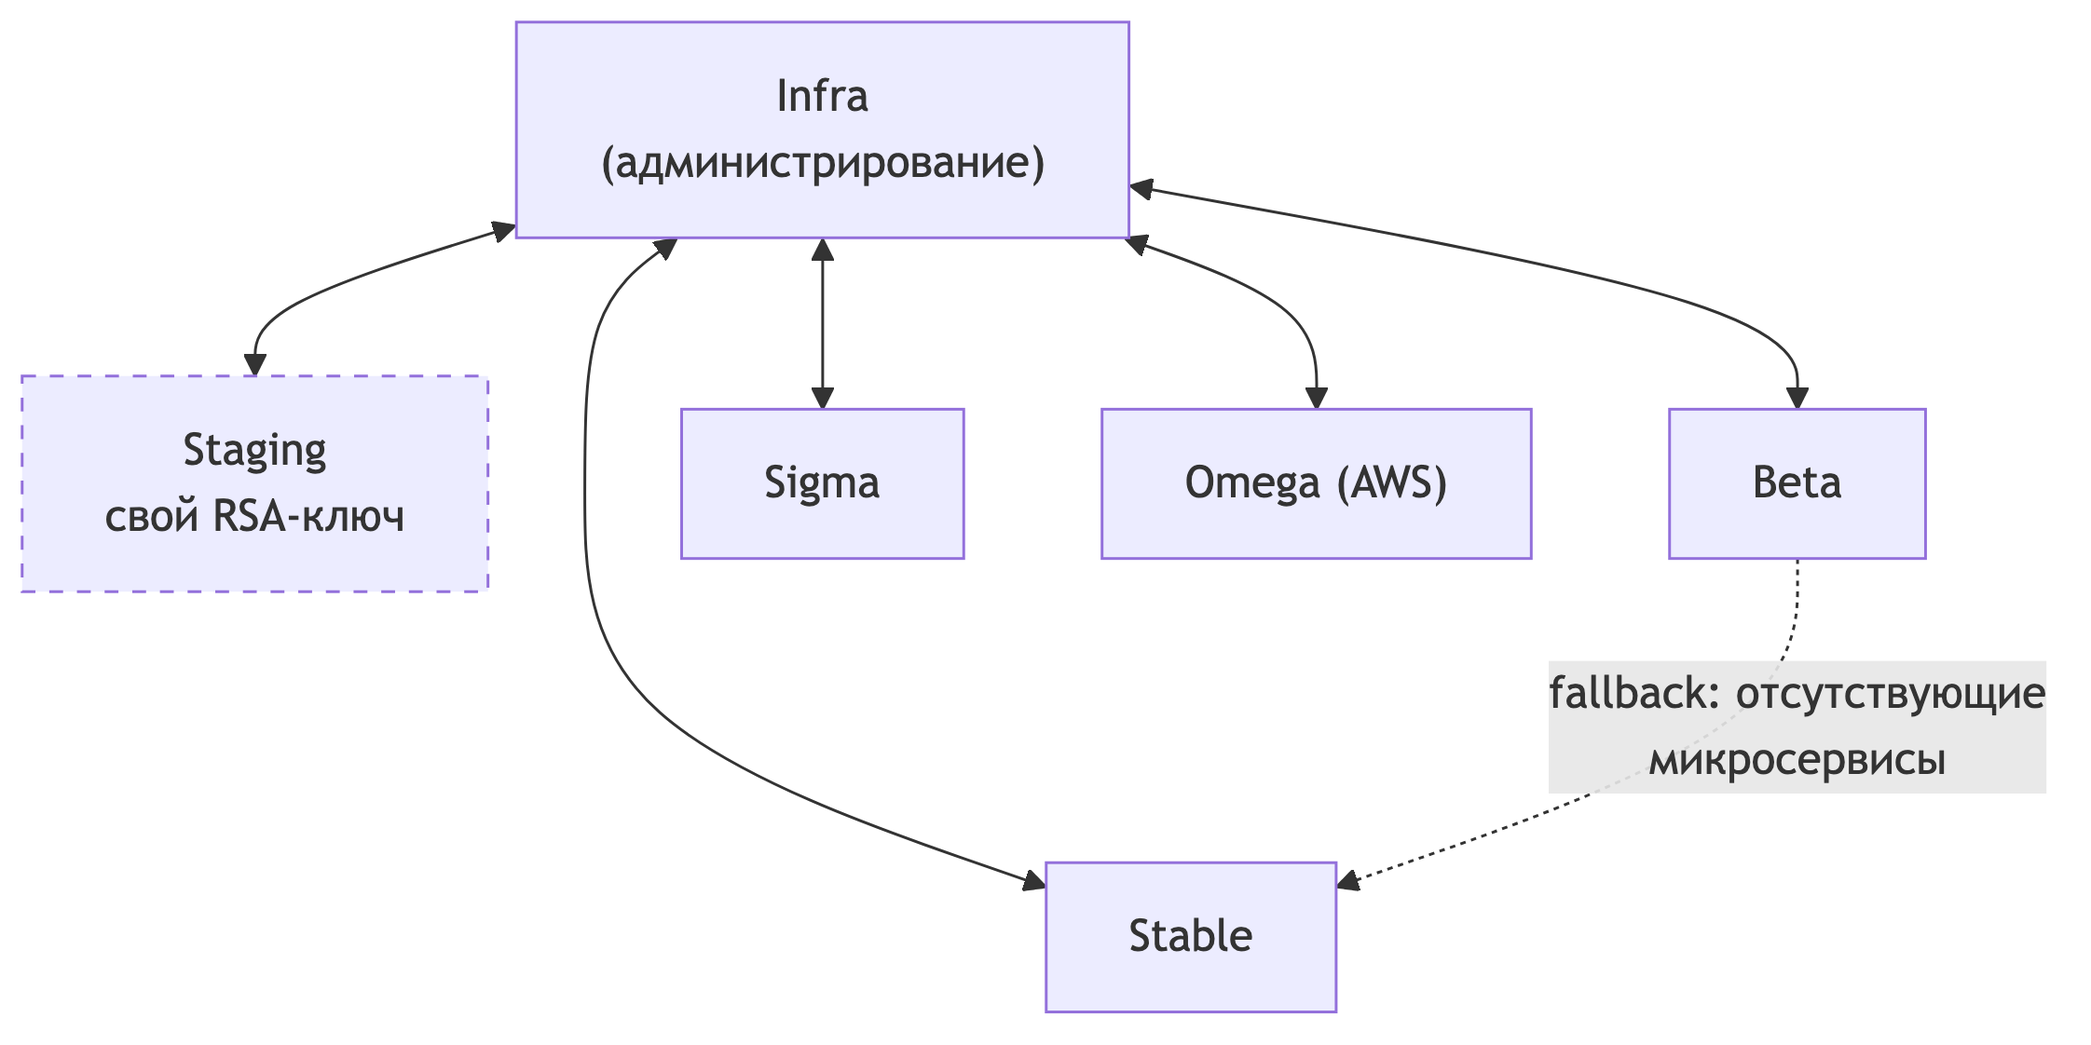
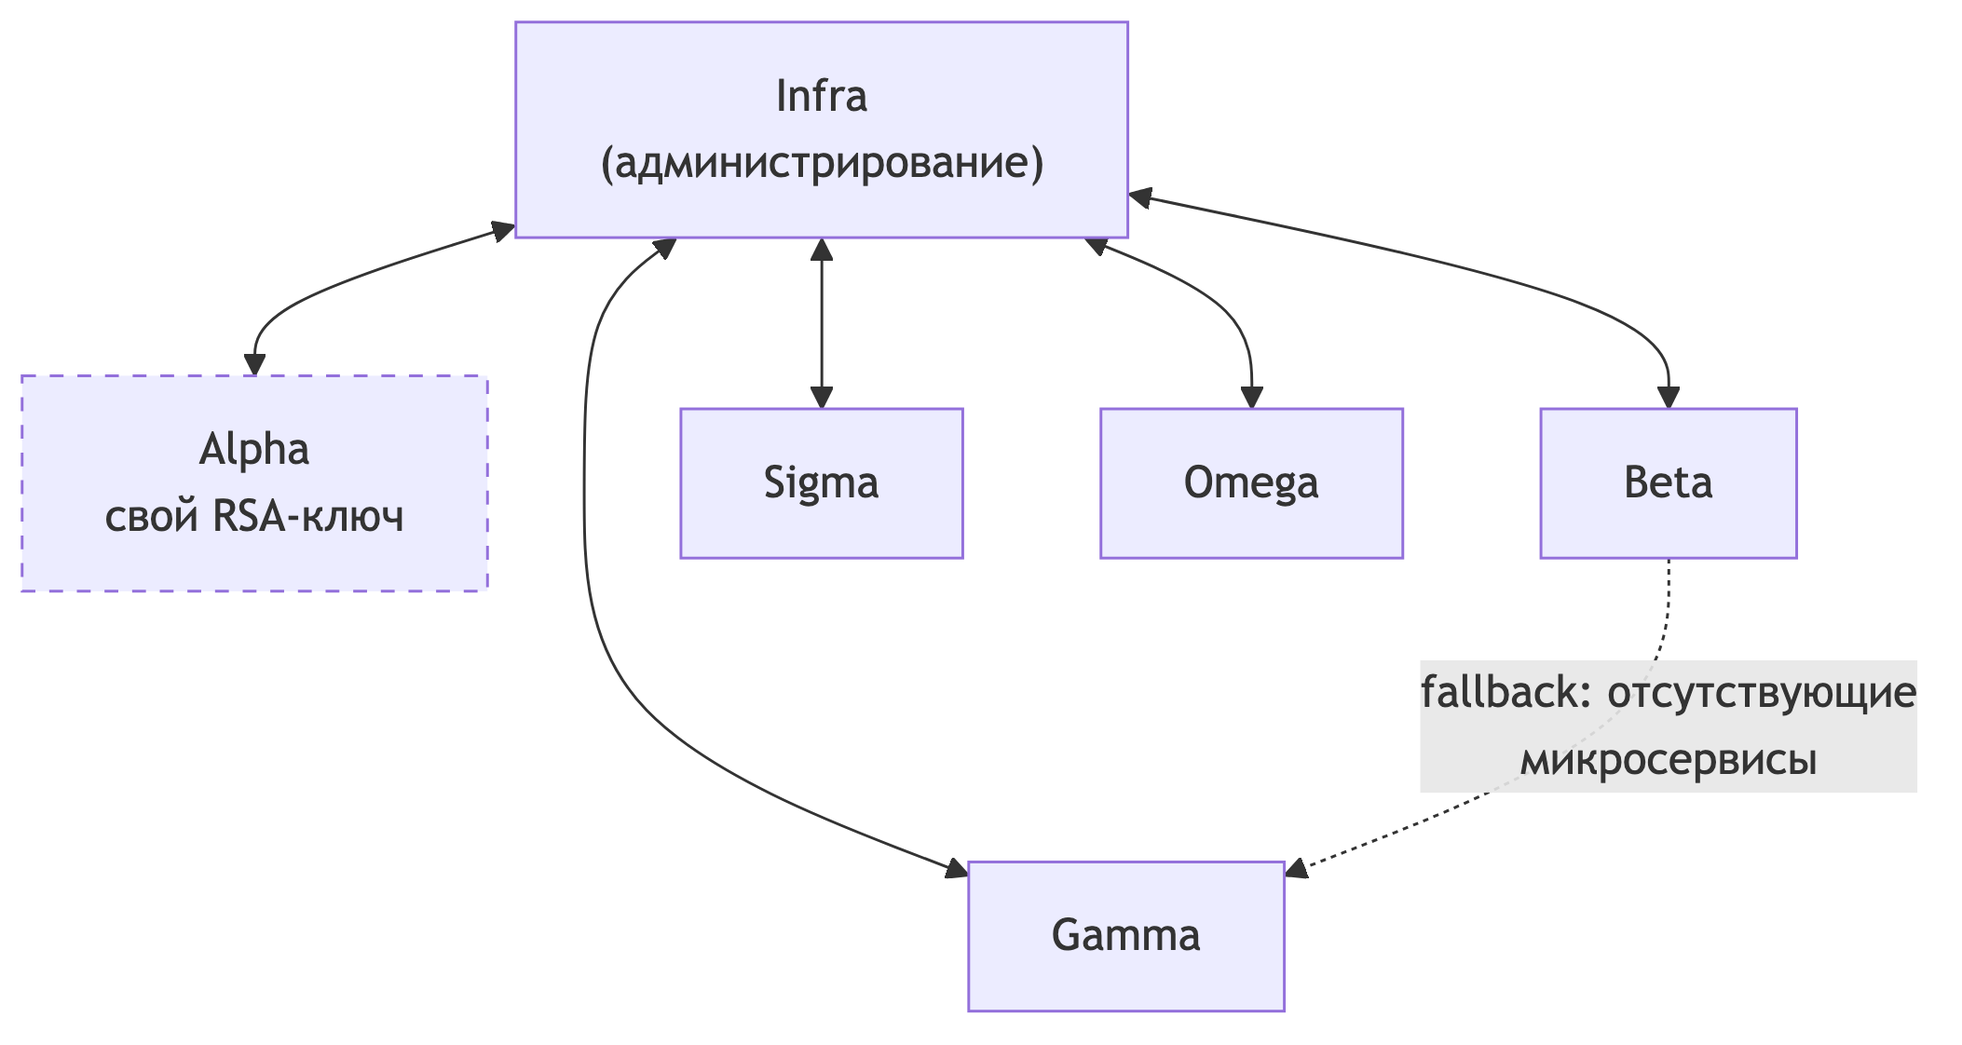
Enhaced things

diff --git a/chapters/006_chapter1.tex b/chapters/006_chapter1.tex
@@ -27,8 +27,9 @@
 
 Платформа Mindbox представляет собой мультитенантную микросервисную систему,
 насчитывающую порядка 120 независимо развёртываемых сервисов.
-Каждый сервис обслуживает запросы нескольких клиентов (тенантов) одновременно,
-разделяя данные на уровне приложения.
+Клиентами (тенантами) платформы являются компании, использующие Mindbox
+для автоматизации маркетинга и роста своего бизнеса, ~--- например, Яндекс Образование, Купер, СДЭК и другие.
+Каждый сервис обслуживает запросы разных тенантов одновременно, разделяя данные на уровне приложения.
 Единственным исключением является CDP (Customer Data Platform)~---
 административная панель клиента, которая развёртывается для каждого тенанта отдельно,
 однако при обработке запросов обращается к общим мультитенантным микросервисам.
@@ -52,41 +53,32 @@
 
 \subsection{Контуры развёртывания}\label{subsec:contours}
 
-Для обеспечения изоляции сред и управления рисками при развёртывании
-платформа разделена на шесть контуров.
+Для обеспечения изоляции сред и управления рисками при развёртывании платформа разделена на несколько контуров.
 
-\textbf{Staging}~--- среда разработчиков.
-Предназначена для локальной отладки и интеграционного тестирования
-до попадания изменений на боевые контуры.
-Использует собственный набор криптографических ключей,
-изолированный от остальных контуров.
-
-\textbf{Beta}~--- контур предрелизного тестирования на ограниченной группе реальных пользователей.
-Позволяет выявить дефекты в условиях, приближённых к боевой эксплуатации,
-до масштабного развёртывания.
-
-\textbf{Stable}~--- основное боевое окружение,
-обслуживающее подавляющее большинство клиентов и принимающее максимальную нагрузку.
-Именно на этом контуре обрабатывается свыше 2 миллионов запросов в минуту.
-
-\textbf{Sigma}~--- дополнительный боевой контур, функционально аналогичный stable.
-Создан для размещения новых клиентов и масштабирования платформы.
-
-\textbf{Omega}~--- полностью изолированный боевой контур,
-развёрнутый в облачной инфраструктуре AWS.
-
-\textbf{Infra}~--- внутренний инфраструктурный контур компании.
-Содержит инструменты администрирования проектами клиентов (CDP приложения)
-на всех вышеперечисленных контурах.
+\begin{itemize}
+  \item \textbf{Alpha} (Staging)~--- среда разработчиков.
+    Предназначена для локальной отладки и интеграционного тестирования до попадания изменений на боевые контуры.
+    Использует собственный набор криптографических ключей, изолированный от остальных контуров.
+  \item \textbf{Beta}~--- контур предрелизного тестирования на ограниченной группе реальных пользователей.
+    Позволяет выявить дефекты в условиях, приближённых к боевой эксплуатации, до масштабного развёртывания.
+  \item \textbf{Gamma} (Stable)~--- основное боевое окружение,
+    обслуживающее подавляющее большинство клиентов и принимающее максимальную нагрузку.
+    Именно на этом контуре обрабатывается свыше 2 миллионов запросов в минуту.
+  \item \textbf{Sigma}~--- дополнительный боевой контур, функционально аналогичный Gamma.
+    Создан для размещения новых клиентов и дальнейшего масштабирования платформы.
+  \item \textbf{Omega}~--- полностью изолированный боевой контур,
+    развёрнутый в облачной инфраструктуре AWS\@.
+  \item \textbf{Infra}~--- внутренний инфраструктурный контур компании.
+    Содержит инструменты администрирования проектами клиентов (CDP приложения)
+    на всех вышеперечисленных контурах.
+\end{itemize}
 
 \subsection{Изолированность контуров}\label{subsec:contour-isolation}
 
 Несмотря на архитектурное разделение,
-изоляция между контурами умышленно нарушается в нескольких точках
-(\firef{fig:contour-interaction}).
+изоляция между контурами умышленно нарушается в нескольких точках (\firef{fig:contour-interaction}).
 Контур infra по своему назначению коммуницирует со всеми остальными контурами,
-и наоборот~--- сервисы на боевых контурах отправляют запросы к infra
-для выполнения административных операций.
+и наоборот~--- сервисы на боевых контурах отправляют запросы к infra для выполнения административных операций.
 
 \begin{figure}[h]
   \centering
@@ -96,59 +88,58 @@
 \end{figure}
 
 Кроме того, часть микросервисов отсутствует на контуре beta.
-В таких случаях запросы с beta перенаправляются на stable,
-образуя межконтурный fallback-маршрут.
+В таких случаях запросы с Beta перенаправляются на Gamma, образуя межконтурный fallback-маршрут.
 
 Наиболее критичным с точки зрения безопасности является то,
-что на всех контурах, кроме staging,
-используется \textbf{один и тот же закрытый RSA-ключ}
+что на всех контурах, кроме Alpha, используется \textbf{один и тот же закрытый RSA-ключ}
 для подписи и верификации JWT-токенов.
-Таким образом, компрометация ключа на любом из контуров
-автоматически ставит под угрозу все остальные.
+Таким образом, компрометация ключа на любом из контуров автоматически ставит под угрозу все остальные.
 Единый ключ порождает неявное межконтурное взаимодействие:
 токен, выпущенный на одном контуре, валиден на любом другом,
 и по самому токену невозможно определить, для какого контура он предназначен.
 Это упрощает эксплуатацию,
-однако при проектировании новой системы авторизации станет одним из ключевых ограничений~---
+однако при проектировании новой системы авторизации станет одной из ключевых сложностей~---
 ротация ключа на одном контуре не должна нарушать работу остальных.
 
 \subsection{Текущая схема JWT-авторизации}\label{subsec:jwt-scheme}
 
-Все 120 микросервисов платформы имеют доступ к закрытому RSA-ключу,
-хранящемуся в HashiCorp Vault.
+Для хранения секретов платформа использует HashiCorp Vault~\cite{HashiCorpVault}~---
+систему централизованного управления секретами.
+Все 120 микросервисов имеют доступ к закрытому RSA-ключу, хранящемуся в Vault.
 Централизованного контроля над выпуском токенов не существует~---
-на практике сложились два разрозненных подхода к работе с JWT.
+на практике сложились два разрозненных подхода к работе с JWT\@.
 
-\textbf{Статические токены в Vault.}
-Для межсервисного взаимодействия, не требующего динамических данных из рантайма,
-разработчик вручную генерирует JWT, подписывает его закрытым ключом
-и сохраняет в Vault как секрет.
-Чтобы избежать повторной ручной генерации,
-срок действия таких токенов устанавливается в 10 лет.
-В рантайме сервис просто считывает готовый токен из Vault
-и использует его для запросов (\firef{fig:static-jwt}).
+\begin{enumerate}
+  \item \textbf{Статические токены в Vault.}
+    Для межсервисного взаимодействия, не требующего динамических данных из рантайма,
+    разработчик вручную генерирует JWT, подписывает его закрытым ключом и сохраняет в Vault как секрет.
+    Чтобы избежать повторной ручной генерации,
+    срок действия таких токенов устанавливается в 10 лет.
+    В рантайме сервис просто считывает готовый токен из Vault
+    и использует его для запросов (\firef{fig:static-jwt}).
 
-\begin{figure}[h]
-  \centering
-  \includegraphics[width=0.85\textwidth]{diagrams/img/ch1_static_jwt}
-  \caption{Использование статического JWT-токена из Vault}
-  \label{fig:static-jwt}
-\end{figure}
+    \begin{figure}[h]
+      \centering
+      \includegraphics[width=0.85\textwidth]{diagrams/img/ch1_static_jwt}
+      \caption{Использование статического JWT-токена из Vault}
+      \label{fig:static-jwt}
+    \end{figure}
 
-\textbf{Динамическая генерация.}
-Когда в токен необходимо включить данные, известные только в момент запроса
-(например, идентификатор тенанта или пользователя),
-сервис самостоятельно получает закрытый ключ из Vault
-и подписывает JWT в рантайме.
-Этот подход применяется прежде всего для пользовательских токенов
-(\firef{fig:dynamic-jwt}).
+  \item \textbf{Динамическая генерация.}
+    Когда в токен необходимо включить данные, известные только в момент запроса
+    (например, идентификатор тенанта или пользователя),
+    сервис самостоятельно получает закрытый ключ из Vault
+    и подписывает JWT в рантайме.
+    Этот подход применяется прежде всего для пользовательских токенов
+    (\firef{fig:dynamic-jwt}).
 
-\begin{figure}[h]
-  \centering
-  \includegraphics[width=0.85\textwidth]{diagrams/img/ch1_dynamic_jwt}
-  \caption{Динамическая генерация JWT в рантайме}
-  \label{fig:dynamic-jwt}
-\end{figure}
+    \begin{figure}[h]
+      \centering
+      \includegraphics[width=0.85\textwidth]{diagrams/img/ch1_dynamic_jwt}
+      \caption{Динамическая генерация JWT в рантайме}
+      \label{fig:dynamic-jwt}
+    \end{figure}
+\end{enumerate}
 
 Однако граница между двумя подходами не контролируется:
 любой микросервис имеет доступ к закрытому ключу
